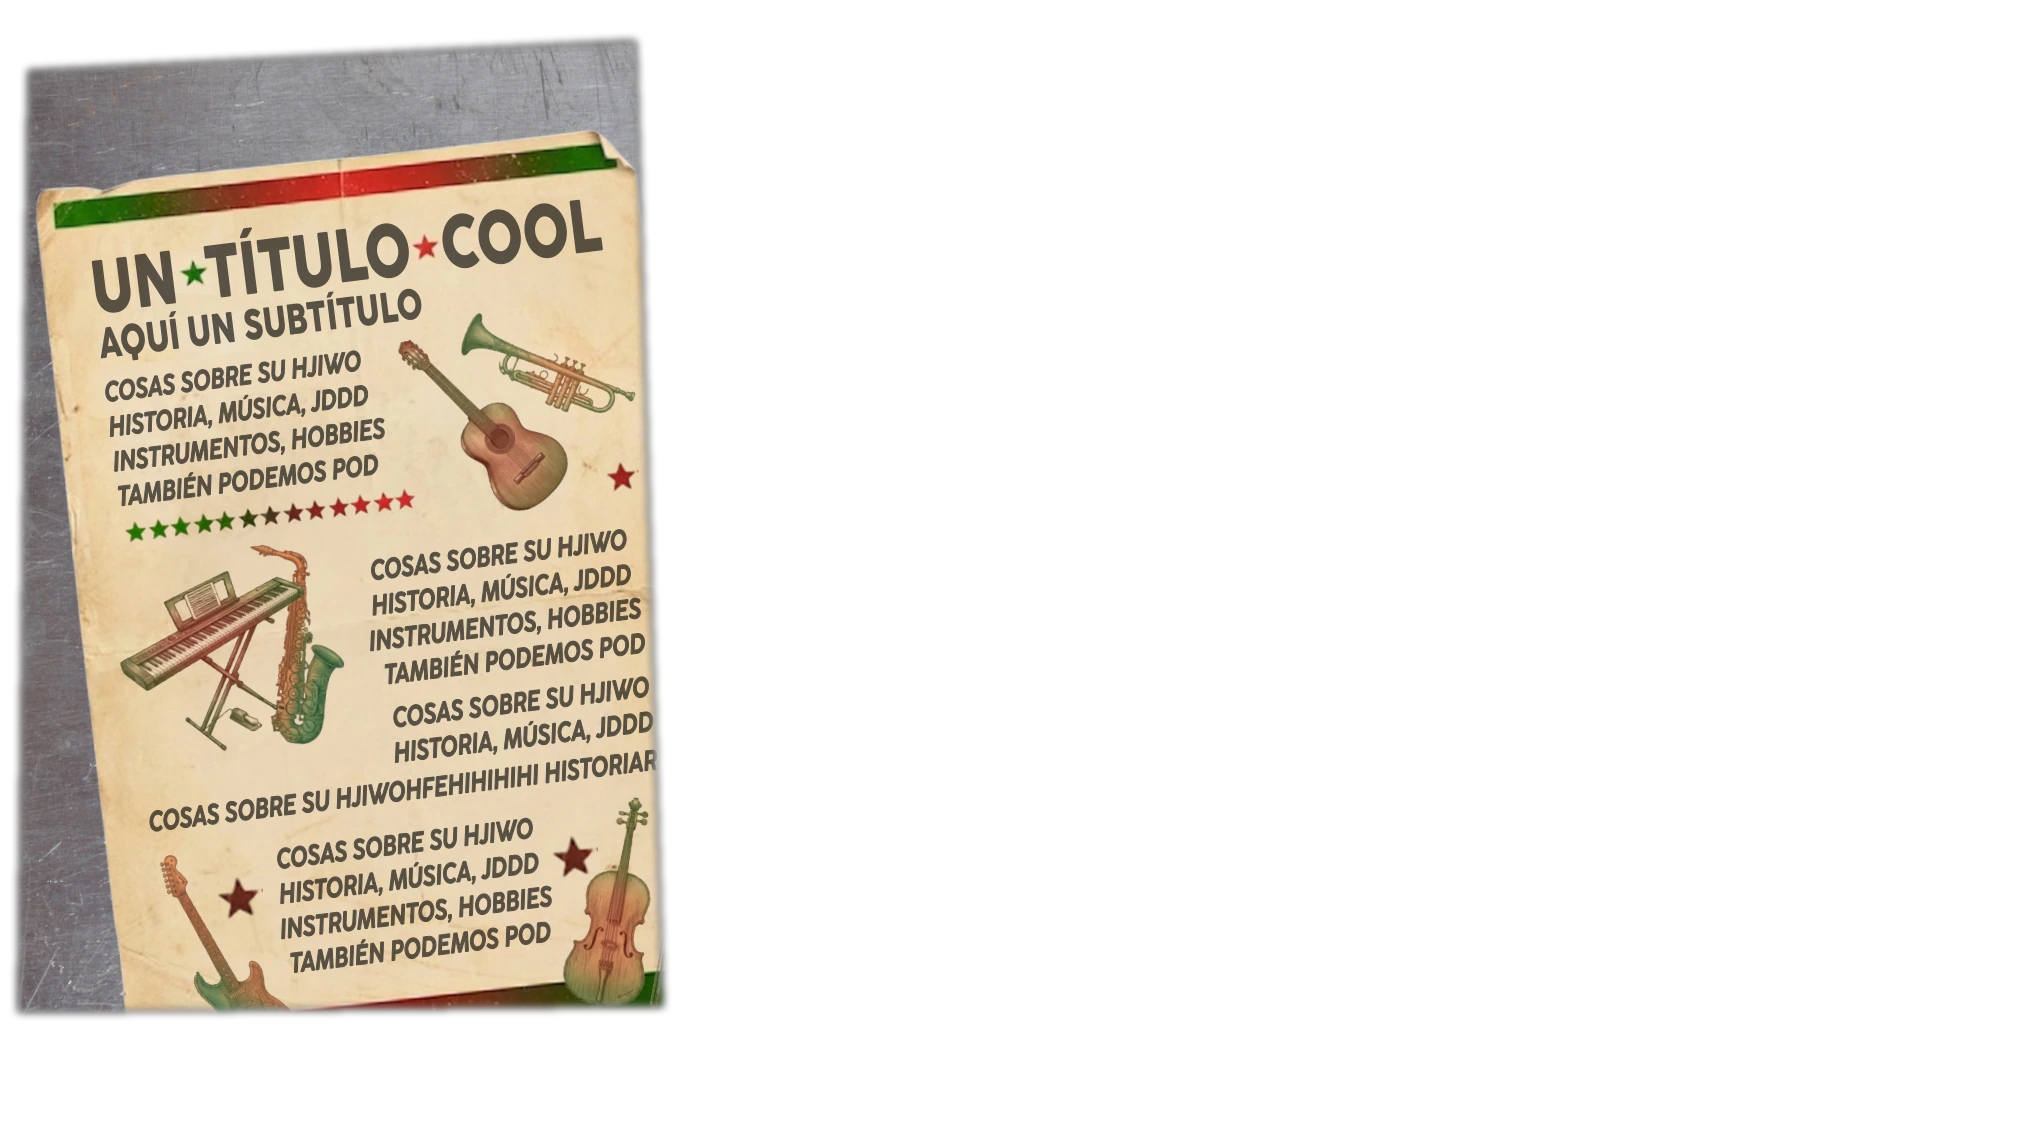
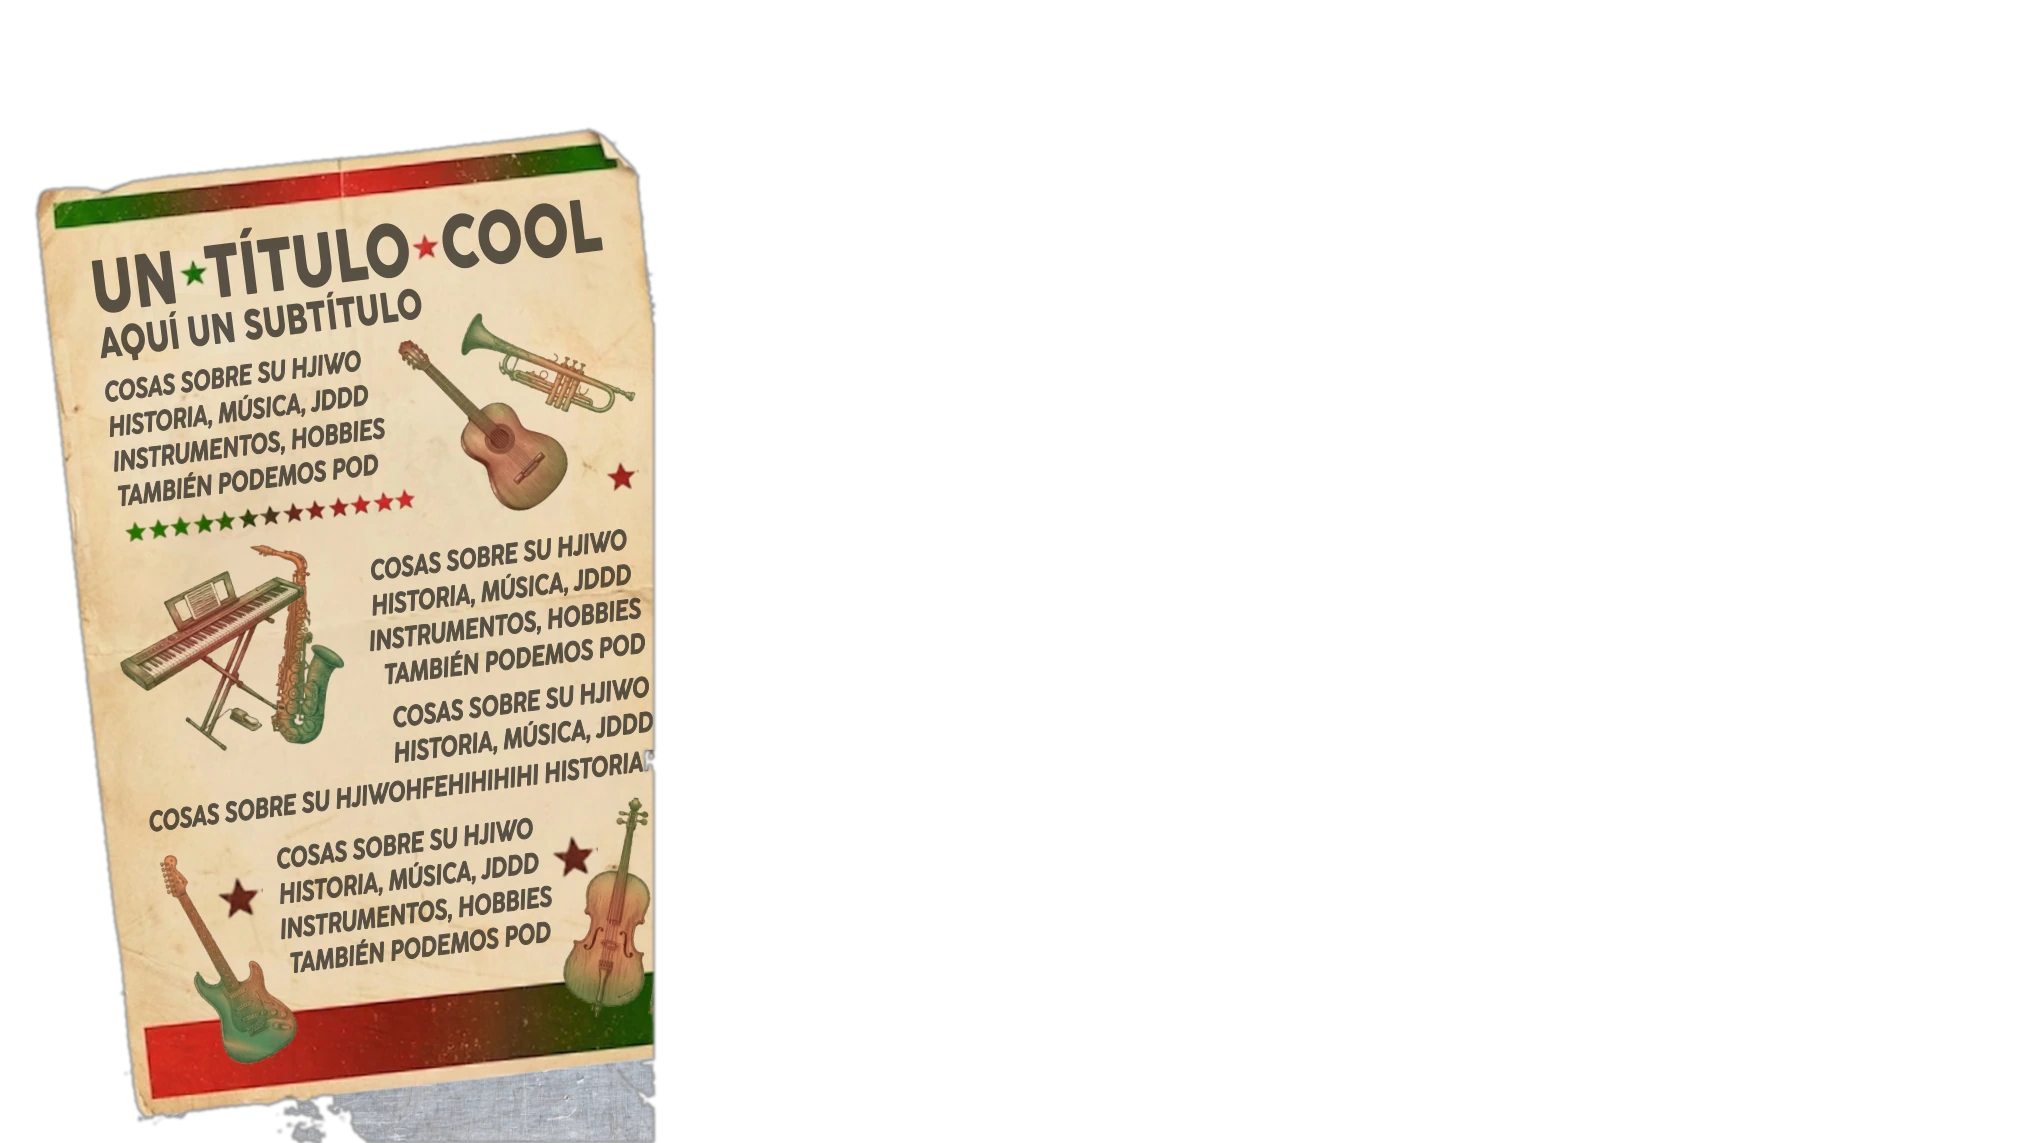
🐺 compu: ¿Ya me conoces? recortes de poster por SILUETA real (segmentacion por color) -> zoom hover limpio sin lineas rectangulares; centros de zoom ajustados

Changed region(s): [[0.0, 0.0306, 0.341, 1.0], [0.31, 0.2143, 0.341, 0.5206], [0.31, 0.5818, 0.341, 0.6124]]

diff --git a/preview/compu/index.html b/preview/compu/index.html
@@ -25,9 +25,9 @@
   .dsec{scroll-margin-top:9vw}
   /* ¿Ya me conoces? — pósters con ZOOM al pasar el CURSOR (hover). Cada póster = lienzo completo transparente; un área-sensor (.poster-hit) sobre la forma de cada póster dispara el zoom de SU overlay. El sensor NO escala (queda fijo) para que el hover no parpadee. */
   #sec-conoces .poster-ov{position:absolute;inset:0;width:100%;height:auto;pointer-events:none;z-index:2;transition:transform .3s ease;will-change:transform}
-  #sec-conoces .poster-ov-1{transform-origin:16.5% 46.5%}
-  #sec-conoces .poster-ov-2{transform-origin:46.5% 50.1%}
-  #sec-conoces .poster-ov-3{transform-origin:85.5% 48.3%}
+  #sec-conoces .poster-ov-1{transform-origin:18.3% 55.1%}
+  #sec-conoces .poster-ov-2{transform-origin:48.7% 55.2%}
+  #sec-conoces .poster-ov-3{transform-origin:83.6% 57%}
   #sec-conoces .poster-hit{position:absolute;z-index:3;cursor:pointer;background:transparent}
   #sec-conoces .poster-hit-1{left:.9%;top:3.5%;width:31.7%;height:85%}
   #sec-conoces .poster-hit-2{left:31.9%;top:.2%;width:30%;height:99.6%}
@@ -277,7 +277,7 @@
   <a class="ech-btn ech-tt" href="https://www.tiktok.com/@elhueycoyote?_r=1&_t=ZS-96XC0kJ7a1F" target="_blank" rel="noopener" aria-label="TikTok"><img src="../sitio/assets/compu/ech-tt-svg.webp?v=1" alt="" aria-hidden="true" loading="lazy"><span class="ech-shine" style="-webkit-mask-image:url('../sitio/assets/compu/ech-tt-svg.webp?v=1');mask-image:url('../sitio/assets/compu/ech-tt-svg.webp?v=1')"></span></a>
 </div></section>
 <div class="dmarquee" role="img" aria-label="¿Ya me conoces?"><div class="dtrack"><img src="../sitio/assets/compu/divtext-conoces.png?v=10" alt="¿Ya me conoces?"><img src="../sitio/assets/compu/divtext-conoces.png?v=10" alt="" aria-hidden="true"></div></div>
-<section class="dsec reveal" id="sec-conoces"><img class="bg" src="../sitio/assets/compu/bg-conoces-full.webp?v=1" alt="¿Ya me conoces? — Sobre El Huey Coyote" loading="lazy" decoding="async"><div class="poster-hit poster-hit-1" aria-hidden="true"></div><div class="poster-hit poster-hit-2" aria-hidden="true"></div><div class="poster-hit poster-hit-3" aria-hidden="true"></div><img class="poster-ov poster-ov-1" src="../sitio/assets/compu/conoces-poster1.webp?v=1" alt="" aria-hidden="true" loading="lazy"><img class="poster-ov poster-ov-2" src="../sitio/assets/compu/conoces-poster2.webp?v=1" alt="" aria-hidden="true" loading="lazy"><img class="poster-ov poster-ov-3" src="../sitio/assets/compu/conoces-poster3.webp?v=1" alt="" aria-hidden="true" loading="lazy"></section>
+<section class="dsec reveal" id="sec-conoces"><img class="bg" src="../sitio/assets/compu/bg-conoces-full.webp?v=1" alt="¿Ya me conoces? — Sobre El Huey Coyote" loading="lazy" decoding="async"><div class="poster-hit poster-hit-1" aria-hidden="true"></div><div class="poster-hit poster-hit-2" aria-hidden="true"></div><div class="poster-hit poster-hit-3" aria-hidden="true"></div><img class="poster-ov poster-ov-1" src="../sitio/assets/compu/conoces-poster1.webp?v=2" alt="" aria-hidden="true" loading="lazy"><img class="poster-ov poster-ov-2" src="../sitio/assets/compu/conoces-poster2.webp?v=2" alt="" aria-hidden="true" loading="lazy"><img class="poster-ov poster-ov-3" src="../sitio/assets/compu/conoces-poster3.webp?v=2" alt="" aria-hidden="true" loading="lazy"></section>
 <div class="dmarquee" role="img" aria-label="Con la raza"><div class="dtrack"><img src="../sitio/assets/compu/divtext-conlaraza.png?v=1" alt="Con la raza"><img src="../sitio/assets/compu/divtext-conlaraza.png?v=1" alt="" aria-hidden="true"></div></div>
 <section class="reveal" id="sec-collabs">
   <div class="galeria-compu">
